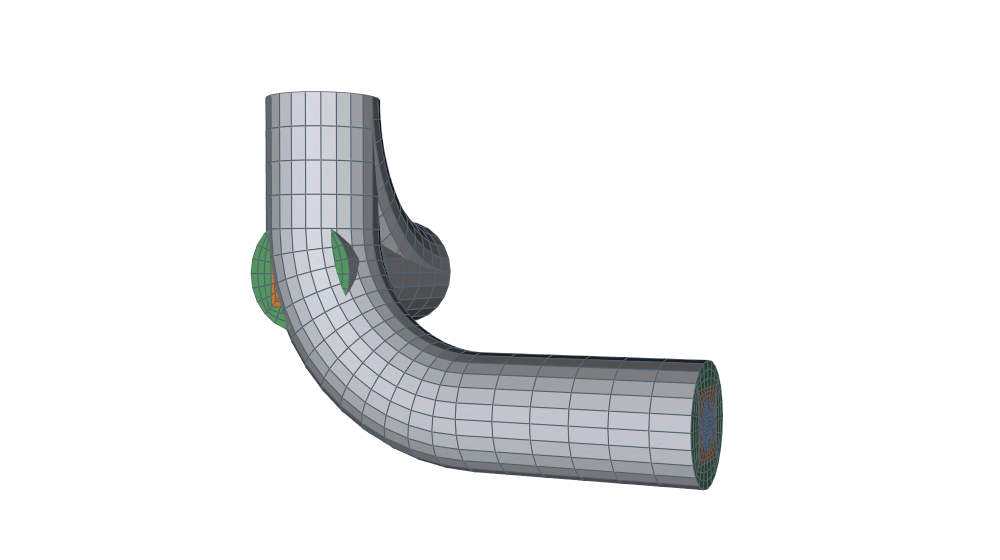
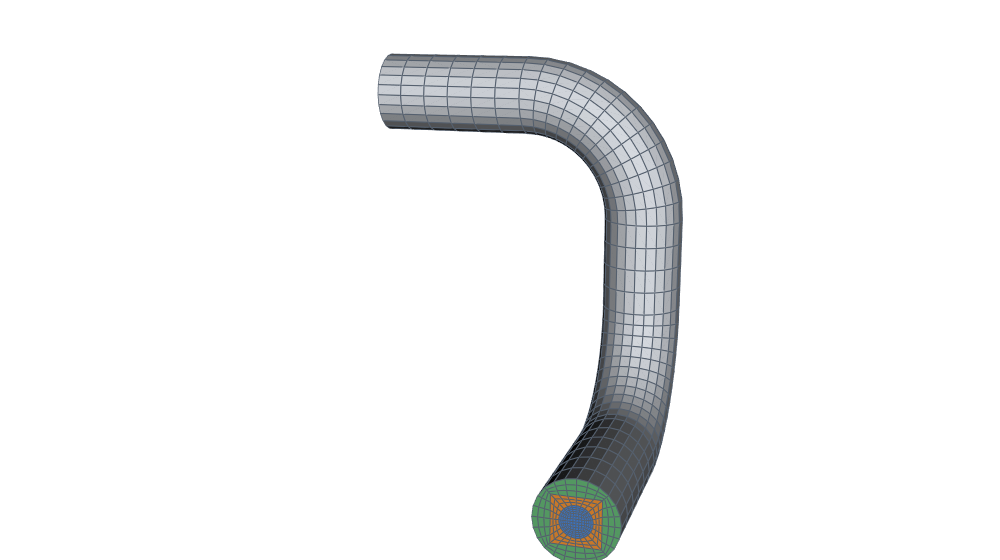
layer_outlines example: second bend turned back into the first
Bend(angle=-90, roll=90) after the upward bend curved back down, so the
route crossed itself and the outlet sat inside the first bend.  Now
angle=90, roll=-90: it turns sideways and away.  Gallery re-rendered.

Changed region(s): [[0.248, 0.0911, 0.744, 1.0]]

diff --git a/hexmesh/examples/sections/layer_outlines.py b/hexmesh/examples/sections/layer_outlines.py
@@ -33,7 +33,7 @@ def build() -> Assembly:
     asm.add(Straight(0.1, n_layers=6))
     asm.add(Bend(radius=0.08, angle=90, n_layers=12))            # turn up
     asm.add(Straight(0.06, n_layers=4))
-    asm.add(Bend(radius=0.08, angle=-90, n_layers=12, roll=90))  # then sideways
+    asm.add(Bend(radius=0.08, angle=90, n_layers=12, roll=-90))  # then sideways, +y
     asm.add(Straight(0.1, n_layers=6))
     return asm
 

diff --git a/docs/GALLERY.md b/docs/GALLERY.md
@@ -29,7 +29,7 @@ What each example shows, what its mesh looks like, and how good the cells are.  
 | [graded_bend](#graded_bend) | CFD-ready bend: wall grading, axial cells clustered at the bend, inlet and outlet extensions, and one wall patch per fitting. | 11 160 | 0.100 | 0.792 | 1.9 s |
 | [rect_duct](#rect_duct) | Rectangular duct: a 2:1 duct with an easy-way and a hard-way bend. | 4 576 | 0.317 | 0.705 | 1.8 s |
 | [duct_transition](#duct_transition) | Duct transition: a circular pipe into a 2:1 duct, a duct bend, and back. | 5 616 | 0.377 | 0.689 | 3.6 s |
-| [layer_outlines](#layer_outlines) | Layer outlines: a round conductor in a square filler in a round sheath. | 11 040 | 0.132 | 0.706 | 5.6 s |
+| [layer_outlines](#layer_outlines) | Layer outlines: a round conductor in a square filler in a round sheath. | 11 040 | 0.132 | 0.706 | 5.8 s |
 | [lagged_duct](#lagged_duct) | Lagged duct: a rectangular air duct with a steel wall and lagging, through a reducer and bends both ways. | 10 488 | 0.025 | 0.690 | 5.3 s |
 | [insulated_transition](#insulated_transition) | Insulated transition: an insulated round pipe becomes an insulated duct, turns, and the insulation stops. | 9 036 | 0.050 | 0.689 | 6.5 s |
 | **Networks: composing fittings into routes, branches and trees** | | | | | |
@@ -372,7 +372,7 @@ python3 -m hexmesh.examples.sections.layer_outlines
 
 | Fittings | Volumes | Cells | min SICN | mean SICN | min SJ (where) | max aspect | Build |
 |---|---|---|---|---|---|---|---|
-| 5: Straight ×3, Bend ×2 | 351 | 11 040 | 0.132 | 0.330 | 0.706 (#1 Bend) | 16.7 | 5.6 s |
+| 5: Straight ×3, Bend ×2 | 351 | 11 040 | 0.132 | 0.330 | 0.706 (#3 Bend) | 16.7 | 5.8 s |
 
 - **Open ends:** `copper_inlet`, `copper_outlet`, `filler_inlet`, `filler_outlet`, `sheath_inlet`, `sheath_outlet`
 - **Walls:** `sheath_wall`
@@ -688,4 +688,4 @@ Case: [validation/poiseuille/README.md](../validation/poiseuille/README.md); res
 
 ---
 
-Generated 2026-10-28 from hexmesh 60c580b + uncommitted changes, gmsh 4.12.1, Python 3.12.3, 8 CPUs, 1 job(s).
+Generated 2026-10-28 from hexmesh 1f5ea6d + uncommitted changes, gmsh 4.12.1, Python 3.12.3, 8 CPUs, 1 job(s).
